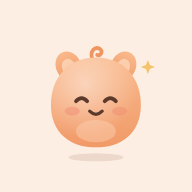
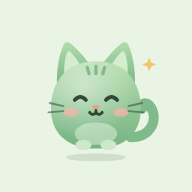
Đổi mascot sang bé mèo xanh lá, phong cách phẳng tối giản
- Mèo màu xanh bạc hà chuyển sắc: tai nhọn, vằn trán, ria, mũi hồng đào, đuôi cong
- 6 biểu cảm, đuôi và tai đổi theo cảm xúc; ôm đồng xu khi tự hào/lo lắng
- Icon app mới với bé mèo trên nền xanh nhạt

Claude-Session: https://claude.ai/code/session_01Je3FxJXK3HtnCsrAMyBBg2

Changed region(s): [[0.25, 0.2188, 0.8438, 0.8438]]

diff --git a/app.js b/app.js
@@ -60,55 +60,63 @@
     return num < 1000 ? Math.round(num * 1e3) : Math.round(num);
   }
 
-  /* ================= Mascot: bé Mơ ================= */
-  /** Mascot bé Mơ: khối tròn màu mơ, phong cách phẳng tối giản. mood: happy | ok | worried | shocked | sleepy | proud */
+  /* ================= Mascot: bé Mèo xanh ================= */
+  /** Mascot bé Mèo xanh: phong cách phẳng tối giản. mood: happy | ok | worried | shocked | sleepy | proud */
   var mascotSeq = 0;
   function mascot(mood, cls) {
     var id = 'mg' + (++mascotSeq);
-    var face = '#5b3a2b', cheek = '#f08a72', coin = '#e9b44c';
+    var face = '#2f4a37', light = '#dcefd4', nose = '#ec9a84', cheek = '#f7b3a6', coin = '#e9b44c';
     var s = '<svg class="' + (cls || '') + '" viewBox="0 0 120 120" aria-hidden="true" focusable="false">';
-    s += '<defs><linearGradient id="' + id + '" x1="0" y1="0" x2="0" y2="1"><stop offset="0" stop-color="#f9b98c"/><stop offset="1" stop-color="#f19a68"/></linearGradient>' +
-      '<radialGradient id="' + id + 'h" cx=".38" cy=".3" r=".6"><stop offset="0" stop-color="#fff" stop-opacity=".45"/><stop offset="1" stop-color="#fff" stop-opacity="0"/></radialGradient></defs>';
-    s += '<ellipse cx="60" cy="114" rx="22" ry="3.2" fill="rgba(120,80,50,.13)"/>';
+    s += '<defs><linearGradient id="' + id + '" x1="0" y1="0" x2="0" y2="1"><stop offset="0" stop-color="#b3dcab"/><stop offset="1" stop-color="#76b384"/></linearGradient>' +
+      '<radialGradient id="' + id + 'h" cx=".36" cy=".28" r=".6"><stop offset="0" stop-color="#fff" stop-opacity=".45"/><stop offset="1" stop-color="#fff" stop-opacity="0"/></radialGradient></defs>';
+    s += '<ellipse cx="60" cy="114" rx="24" ry="3.2" fill="rgba(60,90,60,.14)"/>';
     var up = mood === 'shocked' ? -3 : 0;
     s += '<g transform="translate(0 ' + up + ')">';
-    // tai bo tròn
-    var earTilt = mood === 'worried' || mood === 'sleepy' ? 10 : 0;
-    s += '<g transform="rotate(' + (-25 - earTilt) + ' 38 41)"><ellipse cx="38" cy="41" rx="10" ry="12" fill="url(#' + id + ')"/><ellipse cx="38" cy="42" rx="5.5" ry="7" fill="#fcd3b6" opacity=".85"/></g>';
-    s += '<g transform="rotate(' + (25 + earTilt) + ' 82 41)"><ellipse cx="82" cy="41" rx="10" ry="12" fill="url(#' + id + ')"/><ellipse cx="82" cy="42" rx="5.5" ry="7" fill="#fcd3b6" opacity=".85"/></g>';
-    // lọn tóc xoăn trên đỉnh
-    s += '<path d="M57 35 C55 29 59 25 63 27 C66 29 64 33 61 32" fill="none" stroke="#ef9561" stroke-width="3" stroke-linecap="round"/>';
+    // đuôi cong
+    var tail = mood === 'shocked' ? 'M88 98 C104 96 108 76 104 62 C103 57 98 56 97 61' : mood === 'sleepy' || mood === 'worried' ? 'M86 101 C100 104 110 98 108 88 C107 83 101 83 101 88' : 'M88 98 C104 98 110 84 104 74 C101 69 95 70 97 75';
+    s += '<path d="' + tail + '" fill="none" stroke="#7fbb8a" stroke-width="8" stroke-linecap="round"/>';
+    // tai mèo
+    var droop = mood === 'worried' || mood === 'sleepy' ? 8 : 0;
+    s += '<g transform="rotate(' + (-droop) + ' 40 44)"><path d="M29 58 C28 46 30 33 34 24 Q36 20 40 23 C46 28 52 35 56 41Z" fill="url(#' + id + ')"/><path d="M35 49 C34 42 35 35 37 30 Q38 28 40 30 C43 33 46 37 48 41Z" fill="' + light + '" opacity=".9"/></g>';
+    s += '<g transform="rotate(' + droop + ' 80 44)"><path d="M91 58 C92 46 90 33 86 24 Q84 20 80 23 C74 28 68 35 64 41Z" fill="url(#' + id + ')"/><path d="M85 49 C86 42 85 35 83 30 Q82 28 80 30 C77 33 74 37 72 41Z" fill="' + light + '" opacity=".9"/></g>';
     // thân
-    s += '<path d="M60 34 C83 34 96 51 96 72 C96 94 81 106 60 106 C39 106 24 94 24 72 C24 51 37 34 60 34Z" fill="url(#' + id + ')"/>';
-    s += '<path d="M60 34 C83 34 96 51 96 72 C96 94 81 106 60 106 C39 106 24 94 24 72 C24 51 37 34 60 34Z" fill="url(#' + id + 'h)"/>';
-    s += '<ellipse cx="60" cy="93" rx="16" ry="9" fill="#fcd3b6" opacity=".45"/>';
+    var body = 'M60 37 C84 37 96 54 96 75 C96 96 81 107 60 107 C39 107 24 96 24 75 C24 54 36 37 60 37Z';
+    s += '<path d="' + body + '" fill="url(#' + id + ')"/><path d="' + body + '" fill="url(#' + id + 'h)"/>';
+    s += '<ellipse cx="60" cy="95" rx="17" ry="9" fill="' + light + '" opacity=".55"/>';
+    // vằn nhỏ trên trán
+    s += '<g stroke="#6aa877" stroke-width="2.6" stroke-linecap="round" opacity=".7"><path d="M60 41 V47"/><path d="M53 42 L54.5 47"/><path d="M67 42 L65.5 47"/></g>';
     // má
-    s += '<ellipse cx="41" cy="77" rx="6" ry="3.6" fill="' + cheek + '" opacity=".45"/><ellipse cx="79" cy="77" rx="6" ry="3.6" fill="' + cheek + '" opacity=".45"/>';
+    s += '<ellipse cx="40" cy="78" rx="6" ry="3.5" fill="' + cheek + '" opacity=".75"/><ellipse cx="80" cy="78" rx="6" ry="3.5" fill="' + cheek + '" opacity=".75"/>';
     // mắt
     var ln = 'fill="none" stroke="' + face + '" stroke-width="3" stroke-linecap="round"';
-    if (mood === 'happy' || mood === 'proud') s += '<path d="M44 69 Q48.5 64 53 69" ' + ln + '/><path d="M67 69 Q71.5 64 76 69" ' + ln + '/>';
-    else if (mood === 'sleepy') s += '<path d="M44 69 Q48.5 72.5 53 69" ' + ln + '/><path d="M67 69 Q71.5 72.5 76 69" ' + ln + '/>';
-    else if (mood === 'shocked') s += '<circle cx="48.5" cy="68" r="4.6" fill="' + face + '"/><circle cx="71.5" cy="68" r="4.6" fill="' + face + '"/><circle cx="50" cy="66.5" r="1.5" fill="#fff"/><circle cx="73" cy="66.5" r="1.5" fill="#fff"/>';
+    var ln2 = ln.replace('3"', '2.4"');
+    if (mood === 'happy' || mood === 'proud') s += '<path d="M43 68 Q47.5 63 52 68" ' + ln + '/><path d="M68 68 Q72.5 63 77 68" ' + ln + '/>';
+    else if (mood === 'sleepy') s += '<path d="M43 68 Q47.5 71.5 52 68" ' + ln + '/><path d="M68 68 Q72.5 71.5 77 68" ' + ln + '/>';
+    else if (mood === 'shocked') s += '<circle cx="47.5" cy="67" r="4.8" fill="' + face + '"/><circle cx="72.5" cy="67" r="4.8" fill="' + face + '"/><circle cx="49" cy="65.5" r="1.6" fill="#fff"/><circle cx="74" cy="65.5" r="1.6" fill="#fff"/>';
     else {
-      s += '<ellipse cx="48.5" cy="68" rx="3" ry="3.6" fill="' + face + '"/><ellipse cx="71.5" cy="68" rx="3" ry="3.6" fill="' + face + '"/>';
-      if (mood === 'worried') s += '<path d="M43 62.5 L52 59.5" ' + ln.replace('3"', '2.4"') + '/><path d="M77 62.5 L68 59.5" ' + ln.replace('3"', '2.4"') + '/>';
+      s += '<ellipse cx="47.5" cy="67" rx="3" ry="3.8" fill="' + face + '"/><ellipse cx="72.5" cy="67" rx="3" ry="3.8" fill="' + face + '"/>';
+      if (mood === 'worried') s += '<path d="M42 61.5 L51 58.5" ' + ln2 + '/><path d="M78 61.5 L69 58.5" ' + ln2 + '/>';
     }
-    // miệng
-    if (mood === 'happy' || mood === 'ok') s += '<path d="M55 77 Q60 82 65 77" ' + ln.replace('3"', '2.6"') + '/>';
-    else if (mood === 'proud') s += '<path d="M54.5 76 Q60 84 65.5 76Z" fill="' + face + '"/>';
-    else if (mood === 'worried') s += '<path d="M55 80 Q57.5 77.5 60 80 Q62.5 82.5 65 80" ' + ln.replace('3"', '2.4"') + '/>';
-    else if (mood === 'shocked') s += '<ellipse cx="60" cy="80" rx="3" ry="3.8" fill="' + face + '"/>';
-    else s += '<ellipse cx="60" cy="79" rx="2" ry="1.6" fill="' + face + '"/>';
-    // đồng xu (tự hào / lo lắng)
+    // mũi + miệng
+    s += '<path d="M57 73 Q60 71.5 63 73 Q61.5 76 60 76.5 Q58.5 76 57 73Z" fill="' + nose + '"/>';
+    if (mood === 'happy' || mood === 'ok' || mood === 'proud') s += '<path d="M60 76.5 V78 M55 78 Q57.5 81.5 60 78 Q62.5 81.5 65 78" ' + ln2 + '/>';
+    else if (mood === 'worried') s += '<path d="M55 81 Q57.5 78.5 60 81 Q62.5 83.5 65 81" ' + ln2 + '/>';
+    else if (mood === 'shocked') s += '<ellipse cx="60" cy="81.5" rx="3" ry="3.6" fill="' + face + '"/>';
+    else s += '<path d="M57 79 Q60 80.5 63 79" ' + ln2 + '/>';
+    // ria
+    s += '<g stroke="' + face + '" stroke-width="1.5" stroke-linecap="round" opacity=".55"><path d="M34 73 L23 70.5"/><path d="M34 77 L22 78"/><path d="M86 73 L97 70.5"/><path d="M86 77 L98 78"/></g>';
+    // chân trước / đồng xu
     if (mood === 'proud' || mood === 'worried') {
-      s += '<circle cx="60" cy="95" r="9" fill="' + coin + '"/><circle cx="60" cy="95" r="6" fill="none" stroke="#c98f2a" stroke-width="1.4"/>';
-      s += '<text x="60" y="98.5" text-anchor="middle" font-size="9" font-weight="800" font-family="Nunito, Arial, sans-serif" fill="#a56f15">đ</text>';
-      s += '<ellipse cx="50" cy="96" rx="4.5" ry="3.6" fill="#f3a676"/><ellipse cx="70" cy="96" rx="4.5" ry="3.6" fill="#f3a676"/>';
+      s += '<circle cx="60" cy="96" r="9" fill="' + coin + '"/><circle cx="60" cy="96" r="6" fill="none" stroke="#c98f2a" stroke-width="1.4"/>';
+      s += '<text x="60" y="99.5" text-anchor="middle" font-size="9" font-weight="800" font-family="Nunito, Arial, sans-serif" fill="#a56f15">đ</text>';
+      s += '<ellipse cx="50" cy="97" rx="5" ry="4" fill="#cfe8c7"/><ellipse cx="70" cy="97" rx="5" ry="4" fill="#cfe8c7"/>';
+    } else {
+      s += '<ellipse cx="50" cy="104" rx="6.5" ry="4.2" fill="#cfe8c7"/><ellipse cx="70" cy="104" rx="6.5" ry="4.2" fill="#cfe8c7"/>';
     }
     s += '</g>';
-    if (mood === 'worried') s += '<path d="M92 44 Q97 51 95 54 Q91 56 90 51 Q90 48 92 44Z" fill="#a9d3ea"/>';
-    if (mood === 'sleepy') s += '<text x="90" y="34" font-family="Caveat, cursive" font-size="17" font-weight="700" fill="#b9805a">z</text><text x="100" y="24" font-family="Caveat, cursive" font-size="12" font-weight="700" fill="#b9805a">z</text>';
-    if (mood === 'happy' || mood === 'proud') s += '<path d="M100 40 l1.6 -4 l1.6 4 l4 1.6 l-4 1.6 l-1.6 4 l-1.6 -4 l-4 -1.6z" fill="#f2c46b"/>';
+    if (mood === 'worried') s += '<path d="M94 44 Q99 51 97 54 Q93 56 92 51 Q92 48 94 44Z" fill="#a9d3ea"/>';
+    if (mood === 'sleepy') s += '<text x="90" y="32" font-family="Caveat, cursive" font-size="17" font-weight="700" fill="#5d7a60">z</text><text x="100" y="22" font-family="Caveat, cursive" font-size="12" font-weight="700" fill="#5d7a60">z</text>';
+    if (mood === 'happy' || mood === 'proud') s += '<path d="M101 38 l1.6 -4 l1.6 4 l4 1.6 l-4 1.6 l-1.6 4 l-1.6 -4 l-4 -1.6z" fill="#f2c46b"/>';
     return s + '</svg>';
   }
 

diff --git a/sw.js b/sw.js
@@ -1,5 +1,5 @@
 /* Service worker: cho phép mở app khi offline. Không đụng tới request tới Google. */
-var CACHE = 'costee-v8';
+var CACHE = 'costee-v9';
 var ASSETS = ['./', 'index.html', 'styles.css', 'app.js', 'manifest.webmanifest', 'icons/icon.svg', 'icons/icon-192.png', 'icons/icon-512.png'];
 self.addEventListener('install', function (e) {
   e.waitUntil(caches.open(CACHE).then(function (c) { return c.addAll(ASSETS); }).then(function () { return self.skipWaiting(); }));
